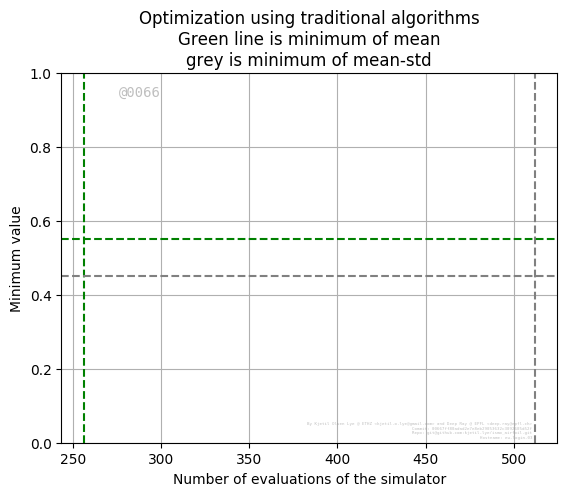
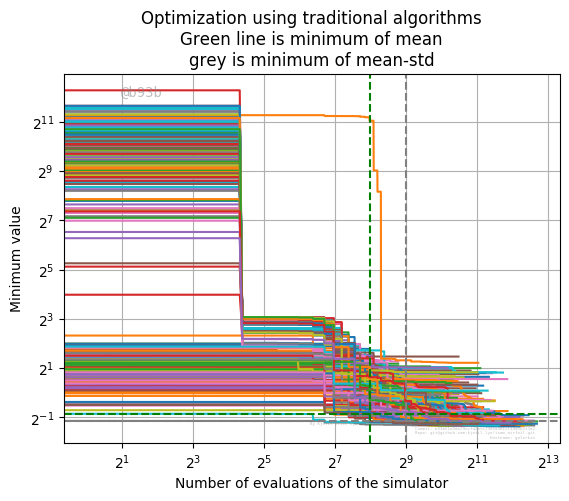
better pltos for traditional

diff --git a/airfoil_chain/plot_tradtional.py b/airfoil_chain/plot_tradtional.py
@@ -35,11 +35,12 @@ if __name__ == '__main__':
      max_number_of_iterations = max(len(sample_array) for sample_array in all_values)
 
 
+     all_minimum_values = []
+     for sample_array in all_values:
      #
-     # for sample_array in all_values:
-     #
-     #     sample_array = np.array(sample_array)
-     #     minimum_sample = cummin(sample_array)
+         sample_array = np.array(sample_array)
+         minimum_sample = cummin(sample_array)
+         all_minimum_values.append(minimum_sample)
      #
      #     number_of_iterations = np.arange(0, minimum_sample.shape[0])
      #
@@ -68,9 +69,11 @@ if __name__ == '__main__':
      min_per_iteration = np.zeros(max_number_of_iterations)
      max_per_iteration = np.zeros(max_number_of_iterations)
 
+
+
      for iteration in range(max_number_of_iterations):
           samples = []
-          for sample_array in all_values:
+          for sample_array in all_minimum_values:
                if len(sample_array) > iteration:
                     samples.append(sample_array[iteration])
           histogram, edges = np.histogram(samples, bins=bins, range=(min_value, max_value))
@@ -97,10 +100,20 @@ if __name__ == '__main__':
      plot_info.showAndSave("optimized_traditional_histograms")
 
      number_of_iterations = np.arange(0, max_number_of_iterations)
-     #plt.fill_between(number_of_iterations, mean_per_iteration-std_per_iteration, mean_per_iteration+std_per_iteration)
-     plt.fill_between(number_of_iterations, min_per_iteration,
-                      max_per_iteration)
-     plt.plot(number_of_iterations, mean_per_iteration)
-     plt.ylim([min_value, max_value])
-     plt.show()
+     plt.fill_between(number_of_iterations, mean_per_iteration-std_per_iteration, mean_per_iteration+std_per_iteration,
+                      alpha=0.5, color='C1', label=r'mean $\pm$ std')
+     #plt.fill_between(number_of_iterations, min_per_iteration,
+     #                 max_per_iteration)
+     plt.plot(number_of_iterations, mean_per_iteration, label='mean')
+     plt.ylim([min_value, 4*max_value])
+     plt.axvline(512, color='grey', linestyle='--')
+     plt.axvline(256, color='green', linestyle='--')
+     plt.axhline(0.55, color='green', linestyle='--')
+     plt.axhline(0.45, color='grey', linestyle='--')
+     plt.xscale('log', basex=2)
+     plt.yscale('log', basey=2)
+     plt.xlabel("Number of evaluations of the simulator")
+     plt.ylabel("Minimum value")
+     plot_info.plot_info.legendLeft()
+     plot_info.showAndSave("optimized_traditional_mean_std")
 
